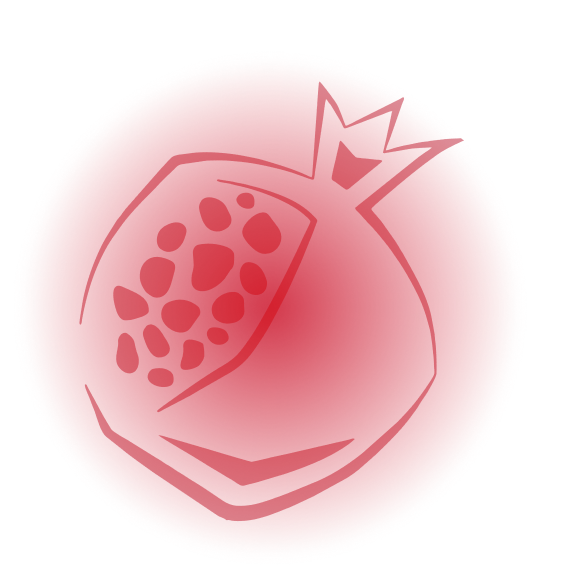
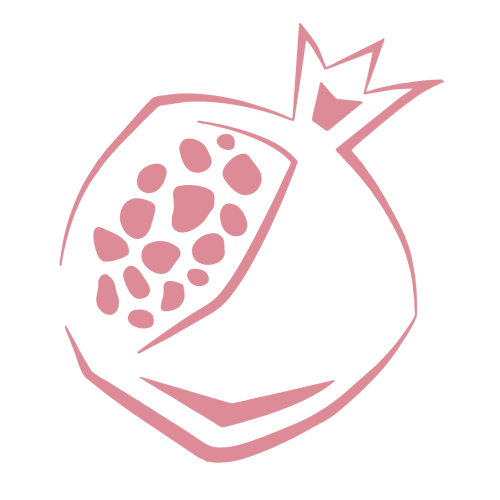
style(background): изменил свечение грантов на фоне

diff --git a/frontend/src/styles/atoms/titles.scss b/frontend/src/styles/atoms/titles.scss
@@ -1,5 +1,4 @@
 .title-h1 {
-    color: var(--black, #000);
     font-family: Jost;
     font-size: 64px;
     font-style: normal;
@@ -17,7 +16,7 @@
     text-decoration-line: underline;
     text-decoration-style: solid;
     text-decoration-skip-ink: auto;
-    text-decoration-color: var(--pomegranate-basic, #b40018);
+    text-decoration-color: var(--pomegranate-bright, #D1001C);
     text-decoration-thickness: auto;
     text-underline-offset: 25%; /* 12px */
     text-underline-position: from-font;
@@ -33,7 +32,7 @@
     text-decoration-line: underline;
     text-decoration-style: solid;
     text-decoration-skip-ink: auto;
-    text-decoration-color: var(--pomegranate-basic, #B40018);
+    text-decoration-color: var(--pomegranate-bright, #D1001C);
     text-decoration-thickness: auto;
     text-underline-offset: 22.5%; /* 9px */
     text-underline-position: from-font;
@@ -64,7 +63,7 @@
         text-decoration-line: underline;
         text-decoration-style: solid;
         text-decoration-skip-ink: auto;
-        text-decoration-color: var(--pomegranate-basic, #B40018);
+        text-decoration-color: var(--pomegranate-bright, #D1001C);
         text-decoration-thickness: 7.5%; /* 1.8px */
         text-underline-offset: 22%; /* 5.28px */
         text-underline-position: from-font;

diff --git a/frontend/src/components/ui/Shared/Background/BackgroundUI.tsx b/frontend/src/components/ui/Shared/Background/BackgroundUI.tsx
@@ -8,7 +8,14 @@ export const BackgroundUI: React.FC<BackgroundProps> = ({count}) => {
             <div className="pomegranates">
                 {Array.from({ length: count }).map((_, i) => {
                     const isEven = i % 2 === 0;
-                    return (
+                    return (<>
+                        <div
+                            className={`red-circle ${isEven ? 'left' : 'right'}`}
+                            style={{
+                                top: `${i * 880}px`,
+                            }}
+                        >
+                        </div>
                         <img
                             key={i}
                             src="/src/assets/backgrounds/pomegranate.png"
@@ -18,6 +25,7 @@ export const BackgroundUI: React.FC<BackgroundProps> = ({count}) => {
                                 transform: isEven ? 'none' : 'scale(-1,1)',
                             }}
                         />
+                    </>
                     );
                 })}
             </div>

diff --git a/frontend/src/components/ui/Shared/Background/background.scss b/frontend/src/components/ui/Shared/Background/background.scss
@@ -8,15 +8,33 @@
     overflow: hidden;
     
     .pomegranates {
-        position: absolute;
         top: 0;
         left: 0;
         width: 100%;
         pointer-events: none; 
         z-index: -1;
     }
+    .red-circle{
+        position: absolute;
+        width: 500px;
+        height: 500px;
 
+        border-radius: 500px;
+        opacity: 0.8;
+        background: radial-gradient(50% 50% at 50% 50%, #C7001A 0%, rgba(199, 0, 26, 0.00) 100%);
+        mix-blend-mode: color-dodge;
+        filter: blur(10px);
+
+        &.left {
+            left: -250px; 
+        }
+
+        &.right {
+            right: -250px; 
+        }
+    }
     .pomegranate {
+        mix-blend-mode: hard-light;
         position: absolute;
         width: 500px;
         height: 500px;

diff --git a/frontend/src/components/Shared/Background/Background.tsx b/frontend/src/components/Shared/Background/Background.tsx
@@ -7,7 +7,7 @@ export const Background: React.FC = () => {
 
     React.useEffect(() => {
         const updateCount = () => {
-            const pageHeight = document.body.scrollHeight;
+            const pageHeight = document.body.scrollHeight - 514;
             const pomegranateSpacing = 900;
             const needed = Math.ceil(pageHeight / pomegranateSpacing);
             setCount(needed);

diff --git a/frontend/src/components/ui/Footer/Footer.scss b/frontend/src/components/ui/Footer/Footer.scss
@@ -1,14 +1,13 @@
 .footer {
     background-color: var(--black-30);
     backdrop-filter: blur(20px);
+    padding: 50px;
     
     &__wrap {
         display: flex;
         justify-content: space-between;
         align-items: flex-start;
-      
-     
-        padding: 50px 0;
+        padding: 0 50px;
     }
 
     &__left {
